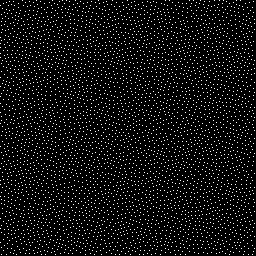
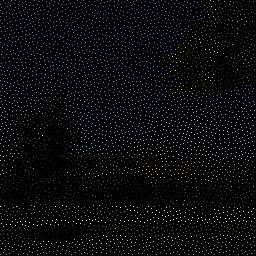
feat(doc): add sample images

diff --git a/blue_noise/README.md b/blue_noise/README.md
@@ -2,24 +2,37 @@
 <!-- DON'T EDIT THIS SECTION, INSTEAD RE-RUN doctoc TO UPDATE -->
 **Table of Contents**  *generated with [DocToc](https://github.com/thlorenz/doctoc)*
 
-- [Generating Blue Noise Sample Points With Mitchell’s Best Candidate Algorithm](#generating-blue-noise-sample-points-with-mitchells-best-candidate-algorithm)
+- [Generate Blue Noise Sample Points Using Best Candidate Mitchell Algorithm](#generate-blue-noise-sample-points-using-best-candidate-mitchell-algorithm)
   - [Regular sampling](#regular-sampling)
   - [White Noise Sampling](#white-noise-sampling)
   - [Blue Noise Sampling](#blue-noise-sampling)
+- [Comparison](#comparison)
 
 <!-- END doctoc generated TOC please keep comment here to allow auto update -->
 
-# Generating Blue Noise Sample Points With Mitchell’s Best Candidate Algorithm
+# Generate Blue Noise Sample Points Using Best Candidate Mitchell Algorithm
 
-Different sampling patterns, to fill a sample space. are used in this example
+Different sampling patterns, to fill a sample space. Are used in this example
 (regular sampling, white nose and blue noise)
 
 ## Regular sampling
 
-Regular sampling consists of evenly spacing the points, this strategy may
-contain aliasing, but there is good coverage of the sample space.
+Regular sampling consists of evenly spacing the points, taken regular intervals
+based on the number of samples and the image size, this strategy may contain
+aliasing, but there is good coverage of the sample space, though less reliable
+in certain circumstances than random sampling, systematic sampling may be
+more practicable and more economical in the time it takes.
 
 Here are 256, 1024 and 4096 samples:
+
+![image](regular_256.png)
+
+![image](regular_1024.png)
+
+![image](regular_4096.png)
+
+
+Here are those samples taken from a source image:
 
 ![image](regular_samples_256.png)
 
@@ -40,6 +53,14 @@ sampling.
 
 Here are 256, 1024 and 4096 samples:
 
+![image](white_noise_256.png)
+
+![image](white_noise_1024.png)
+
+![image](white_noise_4096.png)
+
+Here are those samples taken from a source image:
+
 ![image](white_noise_samples_256.png)
 
 ![image](white_noise_samples_1024.png)
@@ -54,8 +75,49 @@ white noise sampling, but the points are approximately the same distance apart.
 
 Here are 256, 1024 and 4096 samples:
 
+![image](blue_noise_256.png)
+
+![image](blue_noise_1024.png)
+
+![image](blue_noise_4096.png)
+
+Here are those samples taken from a source image:
+
 ![image](blue_noise_samples_256.png)
 
 ![image](blue_noise_samples_1024.png)
 
 ![image](blue_noise_samples_4096.png)
+
+
+# Comparison
+
+Imagine you were a robot with 4096 light/color sensors. Which of the following
+images provides a better picture of reality?.
+
+
+![image](regular_samples_4096.png)
+
+![image](white_noise_samples_4096.png)
+
+![image](blue_noise_samples_4096.png)
+
+The best versions are regular sampling and blue noise, white noise presents
+a very distorted picture of reality .
+
+Regular sampling shows things better in a straight line (street, sidewalk),
+but non-rectangular shaped things look like Minecraft blocks. The blue noise
+grid does the reverse and makes straight things look wavy, while making it
+easier to see the true shape of non straight things.
+
+
+Here is the real image:
+
+![image](sample_image.png)
+
+
+Obviously, the photoreceptors in our eyes are located in the form of blue
+noise. Some say this is why blue noise is more consistent with our perception,
+but also because numerical integration helps converge faster on fewer samples
+(more samples wins versus white noise! ). That's what gives them an
+evolutionary advantage  in the first place.
